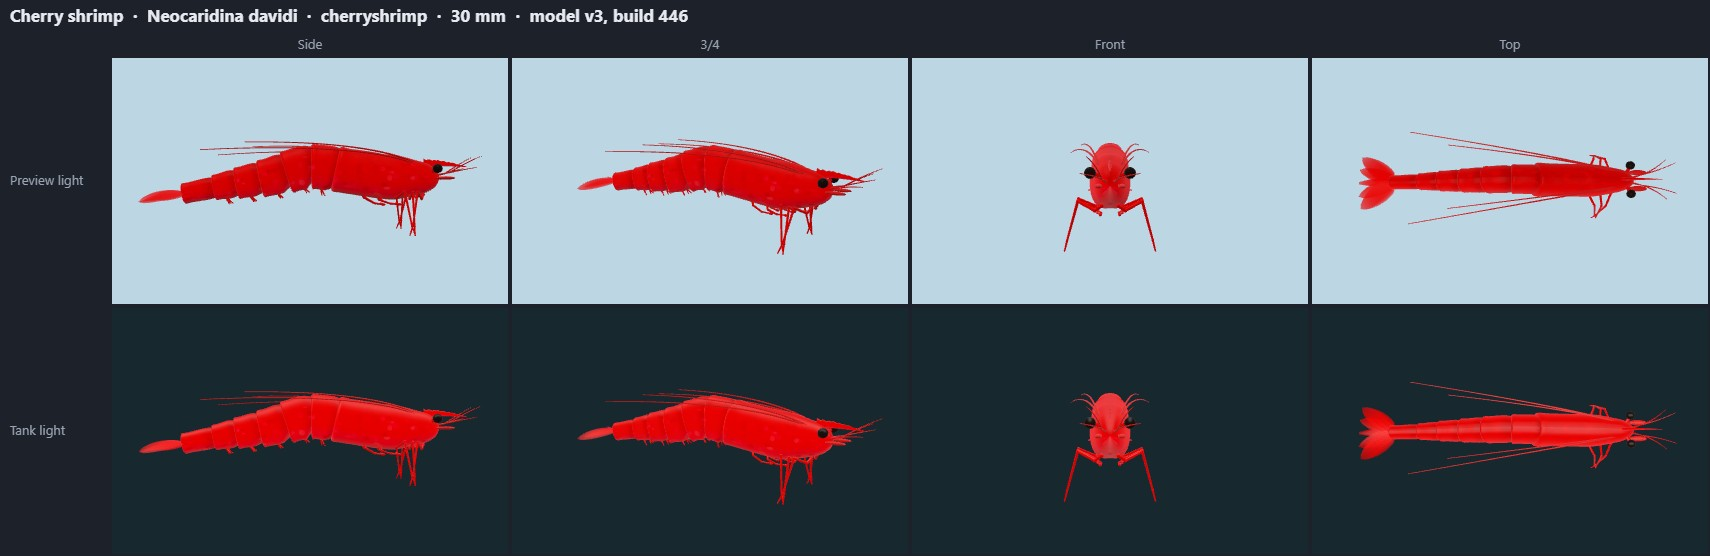
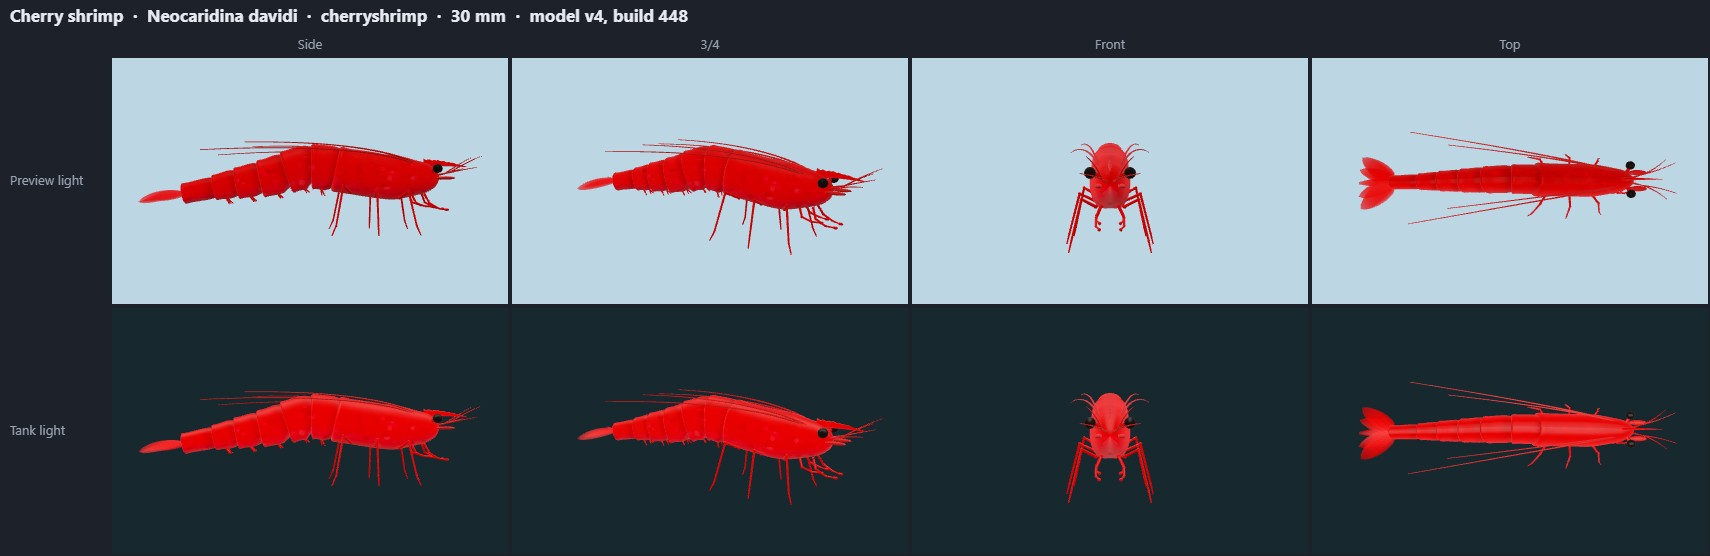
Shrimp legs no longer cross to one point: roots run front to rear along the carapace (pincer pairs at the front), feet fan forward / out / back (build 448)

diff --git a/public/model-sheets/index.html b/public/model-sheets/index.html
@@ -10,7 +10,7 @@ figure { margin: 8px 0 14px; padding: 8px; background: var(--panel); border-radi
 img { display: block; max-width: 100%; height: auto }
 </style></head><body>
 <h1>Model sheets</h1>
-<p>Pre-rendered review images of every TankLook animal model (no WebGL needed): 71 models, 58 species, written at build 446.
+<p>Pre-rendered review images of every TankLook animal model (no WebGL needed): 71 models, 58 species, written at build 448.
 Each sheet shows the Side, 3/4, Front, Top views; top row in the plain preview light, bottom row at true size in the default tank's LED light and water.
 Click a sheet for the full-size image (1710 × 556 px). Interactive version: <a href="../review.html">review.html</a>.</p>
 <h2>Freshwater fish</h2>
@@ -62,8 +62,8 @@ Click a sheet for the full-size image (1710 × 556 px). Interactive version: <a 
 <figure id="peapuffer"><figcaption><b>Pea puffer ♂</b> · <i>Carinotetraodon travancoricus</i> · peapuffer · 30 mm · model v2 (build 351, 2026-10-14)</figcaption><a href="peapuffer.jpg"><img src="peapuffer.jpg" width="1710" height="556" loading="lazy" alt="Pea puffer ♂ (Carinotetraodon travancoricus), model v2: Side, 3/4, Front, Top views, preview light (top row) and tank light (bottom row)"></a></figure>
 <figure id="peapuffer-f"><figcaption><b>Pea puffer ♀</b> · <i>Carinotetraodon travancoricus</i> · peapuffer~f · 30 mm · model v2 (build 351, 2026-10-14)</figcaption><a href="peapuffer-f.jpg"><img src="peapuffer-f.jpg" width="1710" height="556" loading="lazy" alt="Pea puffer ♀ (Carinotetraodon travancoricus), model v2: Side, 3/4, Front, Top views, preview light (top row) and tank light (bottom row)"></a></figure>
 <h2>Freshwater inverts</h2>
-<figure id="cherryshrimp"><figcaption><b>Cherry shrimp</b> · <i>Neocaridina davidi</i> · cherryshrimp · 30 mm · model v3 (build 446, 2026-10-15)</figcaption><a href="cherryshrimp.jpg"><img src="cherryshrimp.jpg" width="1710" height="556" loading="lazy" alt="Cherry shrimp (Neocaridina davidi), model v3: Side, 3/4, Front, Top views, preview light (top row) and tank light (bottom row)"></a></figure>
-<figure id="amano"><figcaption><b>Amano shrimp</b> · <i>Caridina multidentata</i> · amano · 45 mm · model v3 (build 446, 2026-10-15)</figcaption><a href="amano.jpg"><img src="amano.jpg" width="1710" height="556" loading="lazy" alt="Amano shrimp (Caridina multidentata), model v3: Side, 3/4, Front, Top views, preview light (top row) and tank light (bottom row)"></a></figure>
+<figure id="cherryshrimp"><figcaption><b>Cherry shrimp</b> · <i>Neocaridina davidi</i> · cherryshrimp · 30 mm · model v4 (build 448, 2026-10-15)</figcaption><a href="cherryshrimp.jpg"><img src="cherryshrimp.jpg" width="1710" height="556" loading="lazy" alt="Cherry shrimp (Neocaridina davidi), model v4: Side, 3/4, Front, Top views, preview light (top row) and tank light (bottom row)"></a></figure>
+<figure id="amano"><figcaption><b>Amano shrimp</b> · <i>Caridina multidentata</i> · amano · 45 mm · model v4 (build 448, 2026-10-15)</figcaption><a href="amano.jpg"><img src="amano.jpg" width="1710" height="556" loading="lazy" alt="Amano shrimp (Caridina multidentata), model v4: Side, 3/4, Front, Top views, preview light (top row) and tank light (bottom row)"></a></figure>
 <figure id="nerite"><figcaption><b>Nerite snail (zebra)</b> · <i>Neritina natalensis</i> · nerite · 25 mm · model v3 (build 317, 2026-10-14)</figcaption><a href="nerite.jpg"><img src="nerite.jpg" width="1710" height="556" loading="lazy" alt="Nerite snail (zebra) (Neritina natalensis), model v3: Side, 3/4, Front, Top views, preview light (top row) and tank light (bottom row)"></a></figure>
 <figure id="mystery"><figcaption><b>Mystery snail</b> · <i>Pomacea diffusa</i> · mystery · 55 mm · model v2 (build 288, 2026-10-14)</figcaption><a href="mystery.jpg"><img src="mystery.jpg" width="1710" height="556" loading="lazy" alt="Mystery snail (Pomacea diffusa), model v2: Side, 3/4, Front, Top views, preview light (top row) and tank light (bottom row)"></a></figure>
 <figure id="ramshorn"><figcaption><b>Ramshorn snail</b> · <i>Planorbella duryi</i> · ramshorn · 20 mm · model v2 (build 288, 2026-10-14)</figcaption><a href="ramshorn.jpg"><img src="ramshorn.jpg" width="1710" height="556" loading="lazy" alt="Ramshorn snail (Planorbella duryi), model v2: Side, 3/4, Front, Top views, preview light (top row) and tank light (bottom row)"></a></figure>
@@ -79,7 +79,7 @@ Click a sheet for the full-size image (1710 × 556 px). Interactive version: <a 
 <figure id="coralbeauty"><figcaption><b>Coral beauty angelfish</b> · <i>Centropyge bispinosa</i> · coralbeauty · 90 mm · model v2 (build 348, 2026-10-14)</figcaption><a href="coralbeauty.jpg"><img src="coralbeauty.jpg" width="1710" height="556" loading="lazy" alt="Coral beauty angelfish (Centropyge bispinosa), model v2: Side, 3/4, Front, Top views, preview light (top row) and tank light (bottom row)"></a></figure>
 <figure id="watchman"><figcaption><b>Yellow watchman goby</b> · <i>Cryptocentrus cinctus</i> · watchman · 90 mm · model v2 (build 348, 2026-10-14)</figcaption><a href="watchman.jpg"><img src="watchman.jpg" width="1710" height="556" loading="lazy" alt="Yellow watchman goby (Cryptocentrus cinctus), model v2: Side, 3/4, Front, Top views, preview light (top row) and tank light (bottom row)"></a></figure>
 <h2>Saltwater inverts</h2>
-<figure id="cleanershrimp"><figcaption><b>Skunk cleaner shrimp</b> · <i>Lysmata amboinensis</i> · cleanershrimp · 55 mm · model v3 (build 446, 2026-10-15)</figcaption><a href="cleanershrimp.jpg"><img src="cleanershrimp.jpg" width="1710" height="556" loading="lazy" alt="Skunk cleaner shrimp (Lysmata amboinensis), model v3: Side, 3/4, Front, Top views, preview light (top row) and tank light (bottom row)"></a></figure>
+<figure id="cleanershrimp"><figcaption><b>Skunk cleaner shrimp</b> · <i>Lysmata amboinensis</i> · cleanershrimp · 55 mm · model v4 (build 448, 2026-10-15)</figcaption><a href="cleanershrimp.jpg"><img src="cleanershrimp.jpg" width="1710" height="556" loading="lazy" alt="Skunk cleaner shrimp (Lysmata amboinensis), model v4: Side, 3/4, Front, Top views, preview light (top row) and tank light (bottom row)"></a></figure>
 <figure id="turbo"><figcaption><b>Mexican turbo snail</b> · <i>Turbo fluctuosus</i> · turbo · 50 mm · model v2 (build 288, 2026-10-14)</figcaption><a href="turbo.jpg"><img src="turbo.jpg" width="1710" height="556" loading="lazy" alt="Mexican turbo snail (Turbo fluctuosus), model v2: Side, 3/4, Front, Top views, preview light (top row) and tank light (bottom row)"></a></figure>
 <figure id="hermit"><figcaption><b>Blue-leg hermit crab</b> · <i>Clibanarius tricolor</i> · hermit · 30 mm · model v3 (build 297, 2026-10-14)</figcaption><a href="hermit.jpg"><img src="hermit.jpg" width="1710" height="556" loading="lazy" alt="Blue-leg hermit crab (Clibanarius tricolor), model v3: Side, 3/4, Front, Top views, preview light (top row) and tank light (bottom row)"></a></figure>
 <h2>Amphibians</h2>

diff --git a/src/render/shrimp3d.ts b/src/render/shrimp3d.ts
@@ -171,8 +171,9 @@ function jointed(pts: THREE.Vector3[], r: number[]) {
 /** The + side's legs and swimmerets (one geometry; the far side is the mirror). */
 function legGeometry(s: Shrimp3D) {
   const sp = spine(s), G = -REST - s.stand, L = s.legL, parts: THREE.BufferGeometry[] = [];
-  // five pairs of walking legs (pereiopods) under the carapace, front to rear
-  [0.3, 0.24, 0.18, 0.12, 0.065].forEach((t, i) => {
+  // five pairs of walking legs (pereiopods) under the carapace, front to rear (t runs head to tail): the roots spread
+  // along it and the feet fan out from them, front pair forward, rear pair back, so no two legs cross
+  [0.06, 0.11, 0.17, 0.25, 0.33].forEach((t, i) => {
     const f = sp.at(t), y0 = f.c.y - HV * s.deep * 0.75, x0 = f.c.x, b = V(x0, y0, 0.02);
     if (i < 2) { // the two small front pairs (tiny pincers in these shrimp), carried forward and down
       const r = 0.0034;
@@ -181,9 +182,9 @@ function legGeometry(s: Shrimp3D) {
       parts.push(new THREE.SphereGeometry(0.005, 8, 6).scale(1.5, 0.8, 0.8).translate(tip.x + 0.004, tip.y, tip.z).deleteAttribute('uv').toNonIndexed());
       return;
     }
-    const dx = [0.05, 0, -0.06][i - 2], r = 0.0042;
+    const dx = [0.06, 0, -0.07][i - 2], zf = [0.1, 0.115, 0.105][i - 2] * L, r = 0.0042;
     // coxa down out of the carapace, the knee raised and well out to the side, the shank down and out to the foot
-    parts.push(jointed([b, V(x0 + dx * 0.15, y0 - 0.012, 0.036), V(x0 + dx * 0.5, y0 + 0.002 + 0.006 * L, 0.078 * L), V(x0 + dx * 0.82, G + 0.03, 0.105 * L), V(x0 + dx, G + 0.002, 0.112 * L)], [r, r * 0.95, r * 0.8, r * 0.6, r * 0.4]));
+    parts.push(jointed([b, V(x0 + dx * 0.15, y0 - 0.012, 0.036), V(x0 + dx * 0.5, y0 + 0.002 + 0.006 * L, zf * 0.7), V(x0 + dx * 0.82, G + 0.03, zf * 0.94), V(x0 + dx, G + 0.002, zf)], [r, r * 0.95, r * 0.8, r * 0.6, r * 0.4]));
   });
   // swimmerets (pleopods) under abdominal segments 1-5: a short stalk forking into two small paddles, angled forward
   for (let k = 0; k < 5; k++) {
